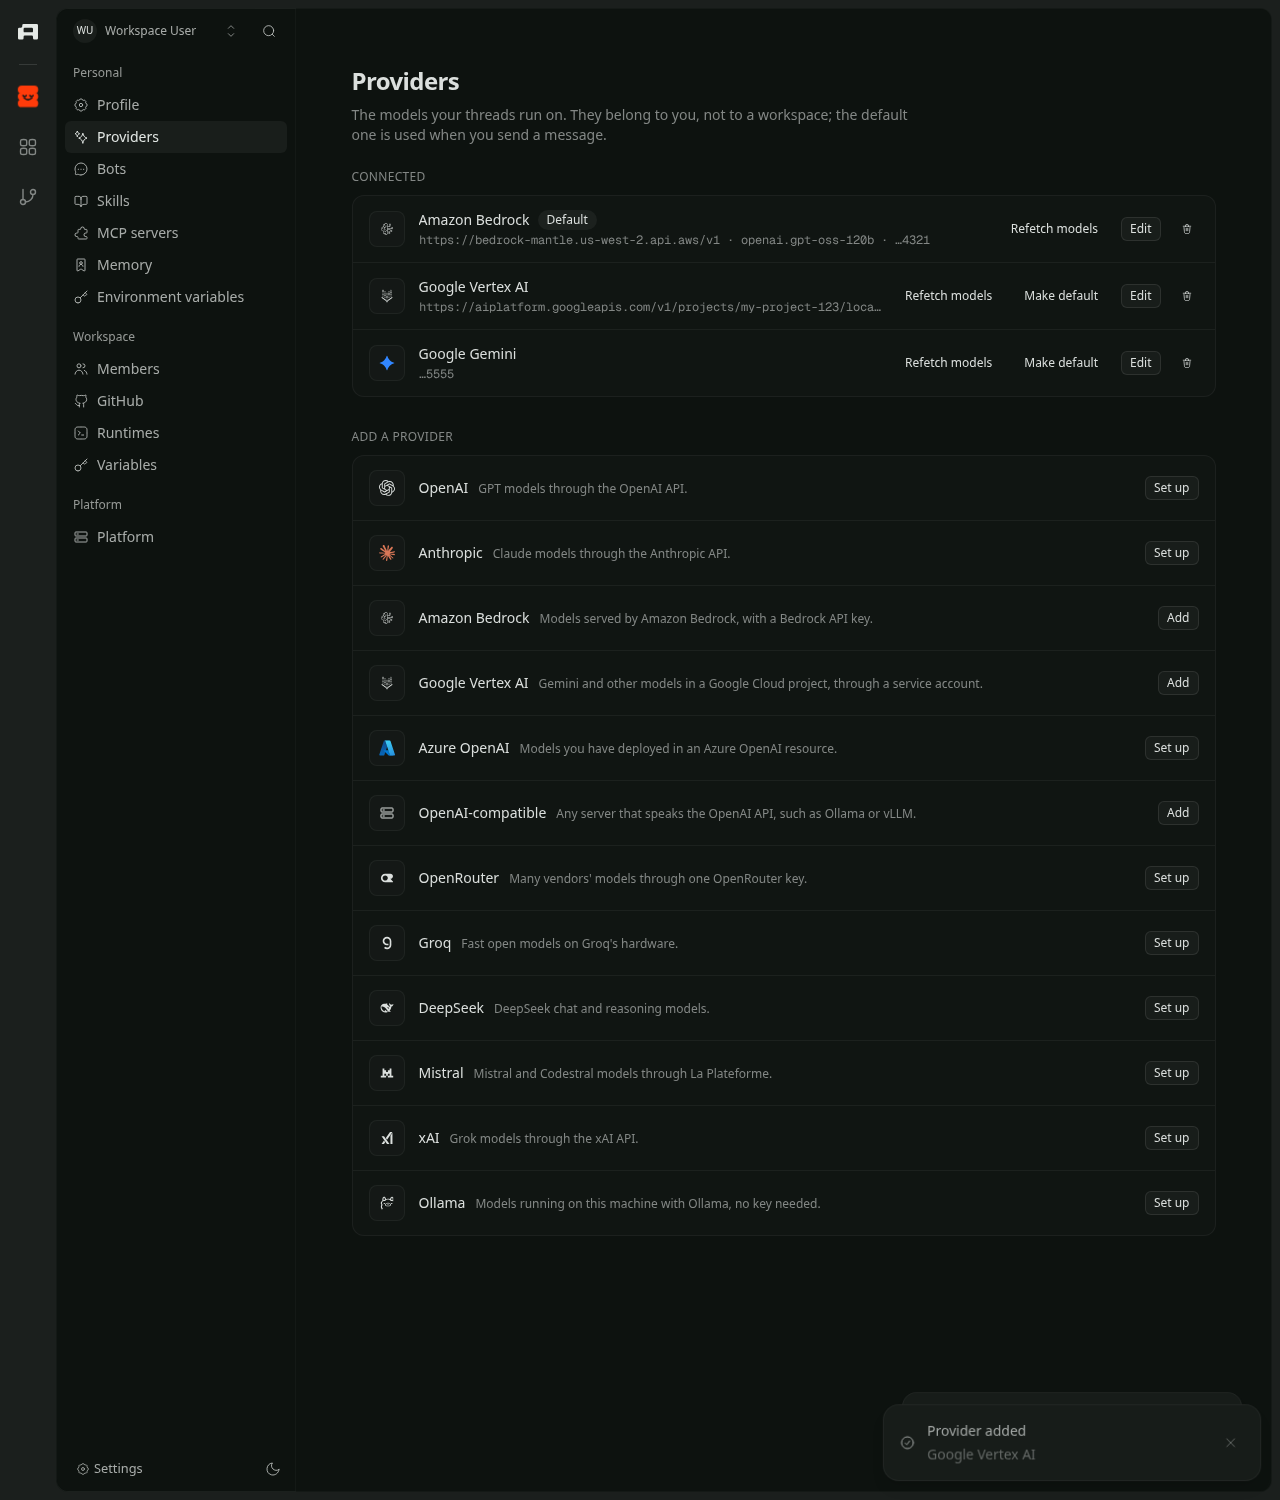
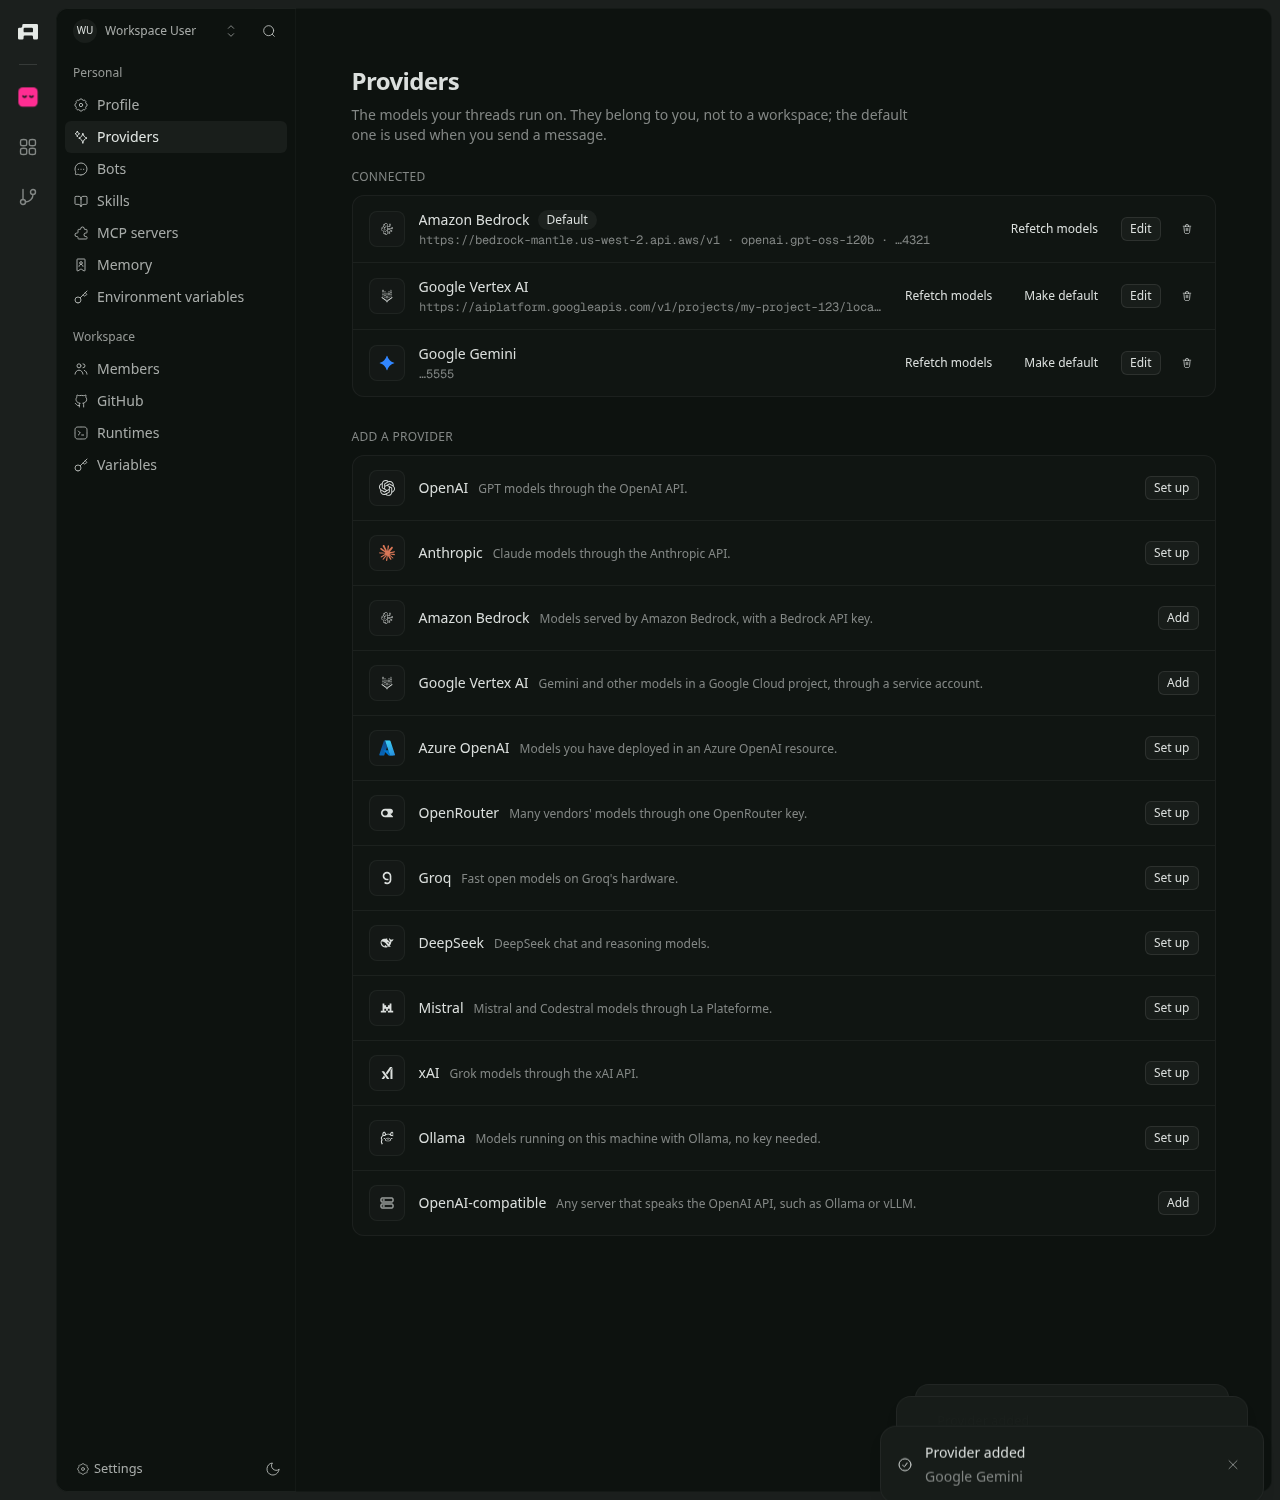
List the OpenAI-compatible panel last

diff --git a/apps/platform/src/modules/providers/components/providers-list.tsx b/apps/platform/src/modules/providers/components/providers-list.tsx
@@ -18,6 +18,15 @@ const MANY = new Set<ProviderKind>(["openai-compatible", "bedrock", "vertex"]);
 const connectedPresets = (providers: Provider[]) =>
   new Set(providers.map((provider) => presetOf(provider)?.id));
 
+type Row = {
+  key: string;
+  kind: ProviderKind;
+  preset?: CompatiblePreset;
+  title: string;
+  description: string;
+  label: string;
+};
+
 const detail = (provider: Provider) =>
   [provider.baseUrl, provider.modelId, provider.keyHint && `…${provider.keyHint}`]
     .filter(Boolean)
@@ -64,6 +73,26 @@ export function ProvidersList() {
 
   const taken = connectedPresets(providers);
   const presets = COMPATIBLE_PRESETS.filter((preset) => !taken.has(preset.id));
+  // The kinds, then the services with a panel of their own, and the generic server panel last.
+  const kindRow = (kind: ProviderKind): Row => ({
+    key: kind,
+    kind,
+    title: PROVIDER_LABELS[kind],
+    description: PROVIDER_DESCRIPTIONS[kind],
+    label: MANY.has(kind) ? "Add" : "Set up",
+  });
+  const rows: Row[] = [
+    ...available.filter((kind) => kind !== "openai-compatible").map(kindRow),
+    ...presets.map((preset): Row => ({
+      key: preset.id,
+      kind: "openai-compatible",
+      preset,
+      title: preset.name,
+      description: preset.description,
+      label: "Set up",
+    })),
+    ...available.filter((kind) => kind === "openai-compatible").map(kindRow),
+  ];
 
   return (
     <div className="flex flex-col gap-8">
@@ -103,34 +132,18 @@ export function ProvidersList() {
         </Group>
       )}
       <Group title={providers.length > 0 ? "Add a provider" : "Set up a provider"}>
-        {available.map((kind) => (
+        {rows.map((row) => (
           <li
-            key={kind}
-            aria-label={PROVIDER_LABELS[kind]}
+            key={row.key}
+            aria-label={row.title}
             className="flex items-center gap-3.5 px-4 py-3.5"
           >
-            <Tile kind={kind} />
+            <Tile kind={row.kind} preset={row.preset?.id} />
             <div className="flex min-w-0 flex-1 flex-col gap-0.5 sm:flex-row sm:items-baseline sm:gap-2.5">
-              <span className="text-sm font-medium">{PROVIDER_LABELS[kind]}</span>
-              <span className="truncate text-xs text-muted-foreground">
-                {PROVIDER_DESCRIPTIONS[kind]}
-              </span>
+              <span className="text-sm font-medium">{row.title}</span>
+              <span className="truncate text-xs text-muted-foreground">{row.description}</span>
             </div>
-            <ProviderDialog kind={kind} label={MANY.has(kind) ? "Add" : "Set up"} />
-          </li>
-        ))}
-        {presets.map((preset) => (
-          <li
-            key={preset.id}
-            aria-label={preset.name}
-            className="flex items-center gap-3.5 px-4 py-3.5"
-          >
-            <Tile kind="openai-compatible" preset={preset.id} />
-            <div className="flex min-w-0 flex-1 flex-col gap-0.5 sm:flex-row sm:items-baseline sm:gap-2.5">
-              <span className="text-sm font-medium">{preset.name}</span>
-              <span className="truncate text-xs text-muted-foreground">{preset.description}</span>
-            </div>
-            <ProviderDialog kind="openai-compatible" preset={preset} label="Set up" />
+            <ProviderDialog kind={row.kind} preset={row.preset} label={row.label} />
           </li>
         ))}
       </Group>

diff --git a/e2e/workspace.spec.ts b/e2e/workspace.spec.ts
@@ -175,6 +175,11 @@ test.describe("settings", () => {
     await expect(connected).toBeVisible();
 
     // Each service has a panel of its own, with its address fixed, and goes once it is set up.
+    // The generic server panel is the last one.
+    const addRows = page
+      .getByRole("listitem")
+      .filter({ has: page.getByRole("button", { name: /^(Add|Set up)$/ }) });
+    await expect(addRows.last()).toHaveAccessibleName("OpenAI-compatible");
     const groq = page.getByRole("listitem", { name: "Groq" });
     await expect(groq).toContainText("Fast open models");
     await groq.getByRole("button", { name: "Set up" }).click();
